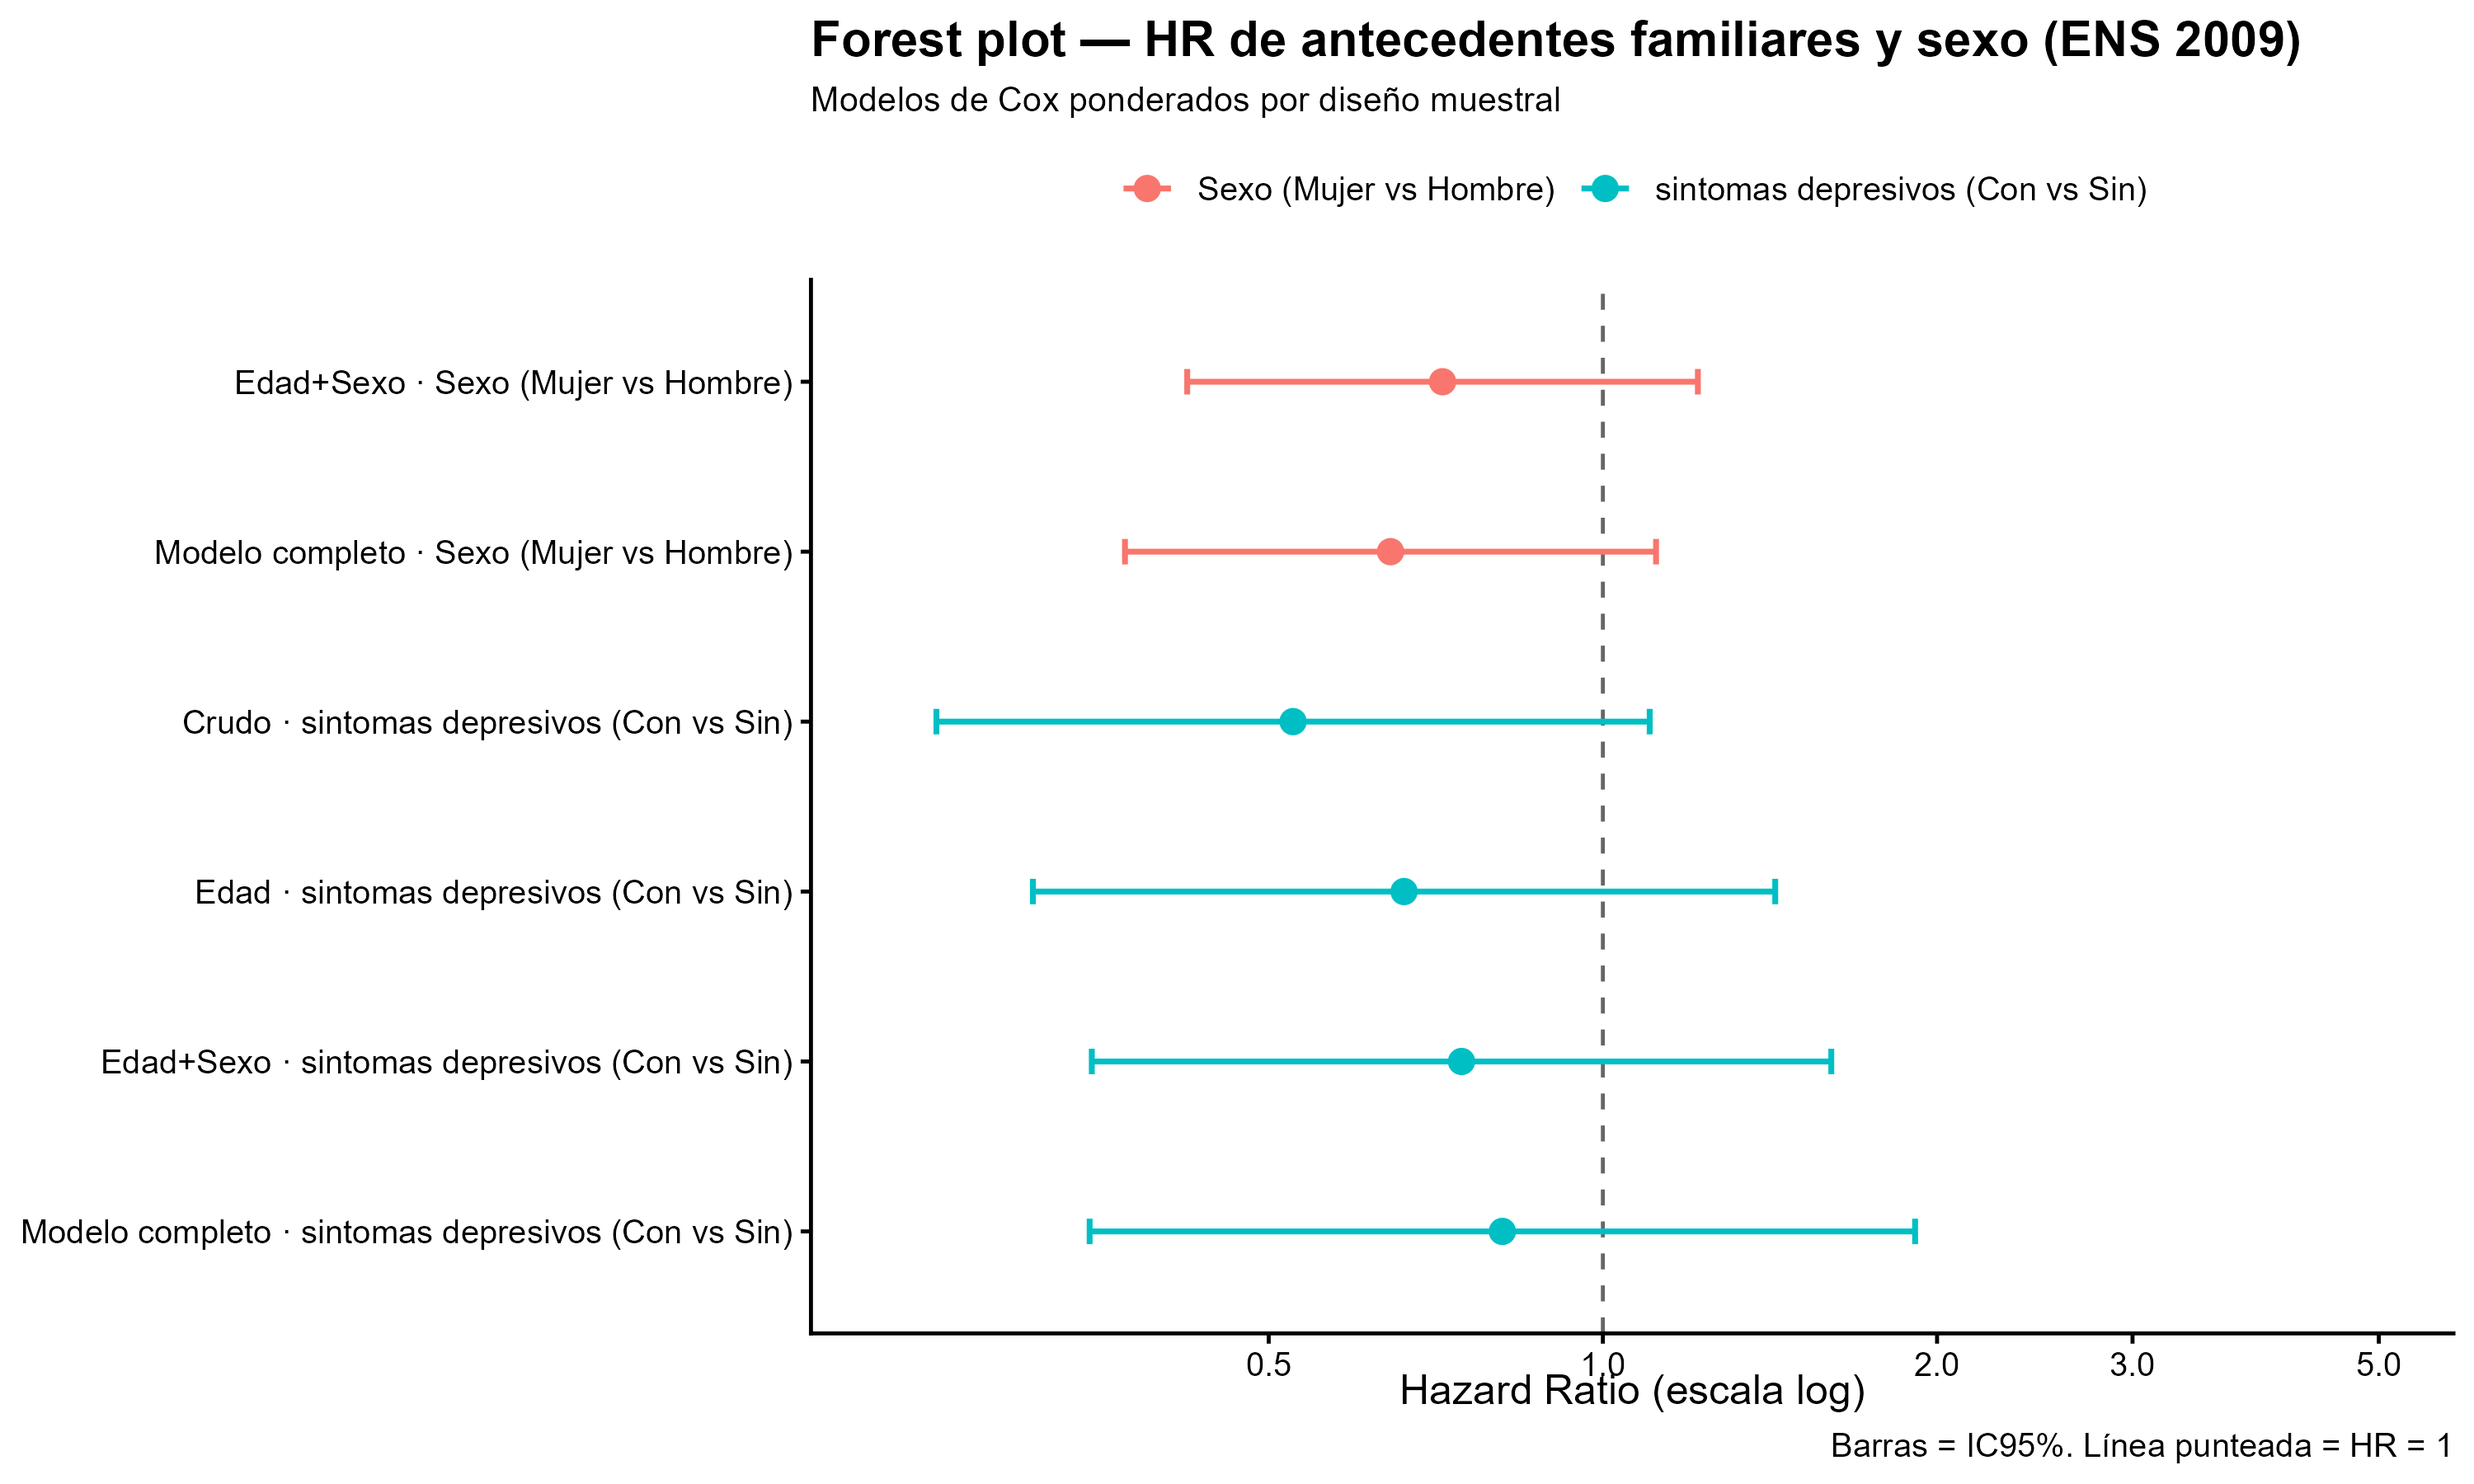
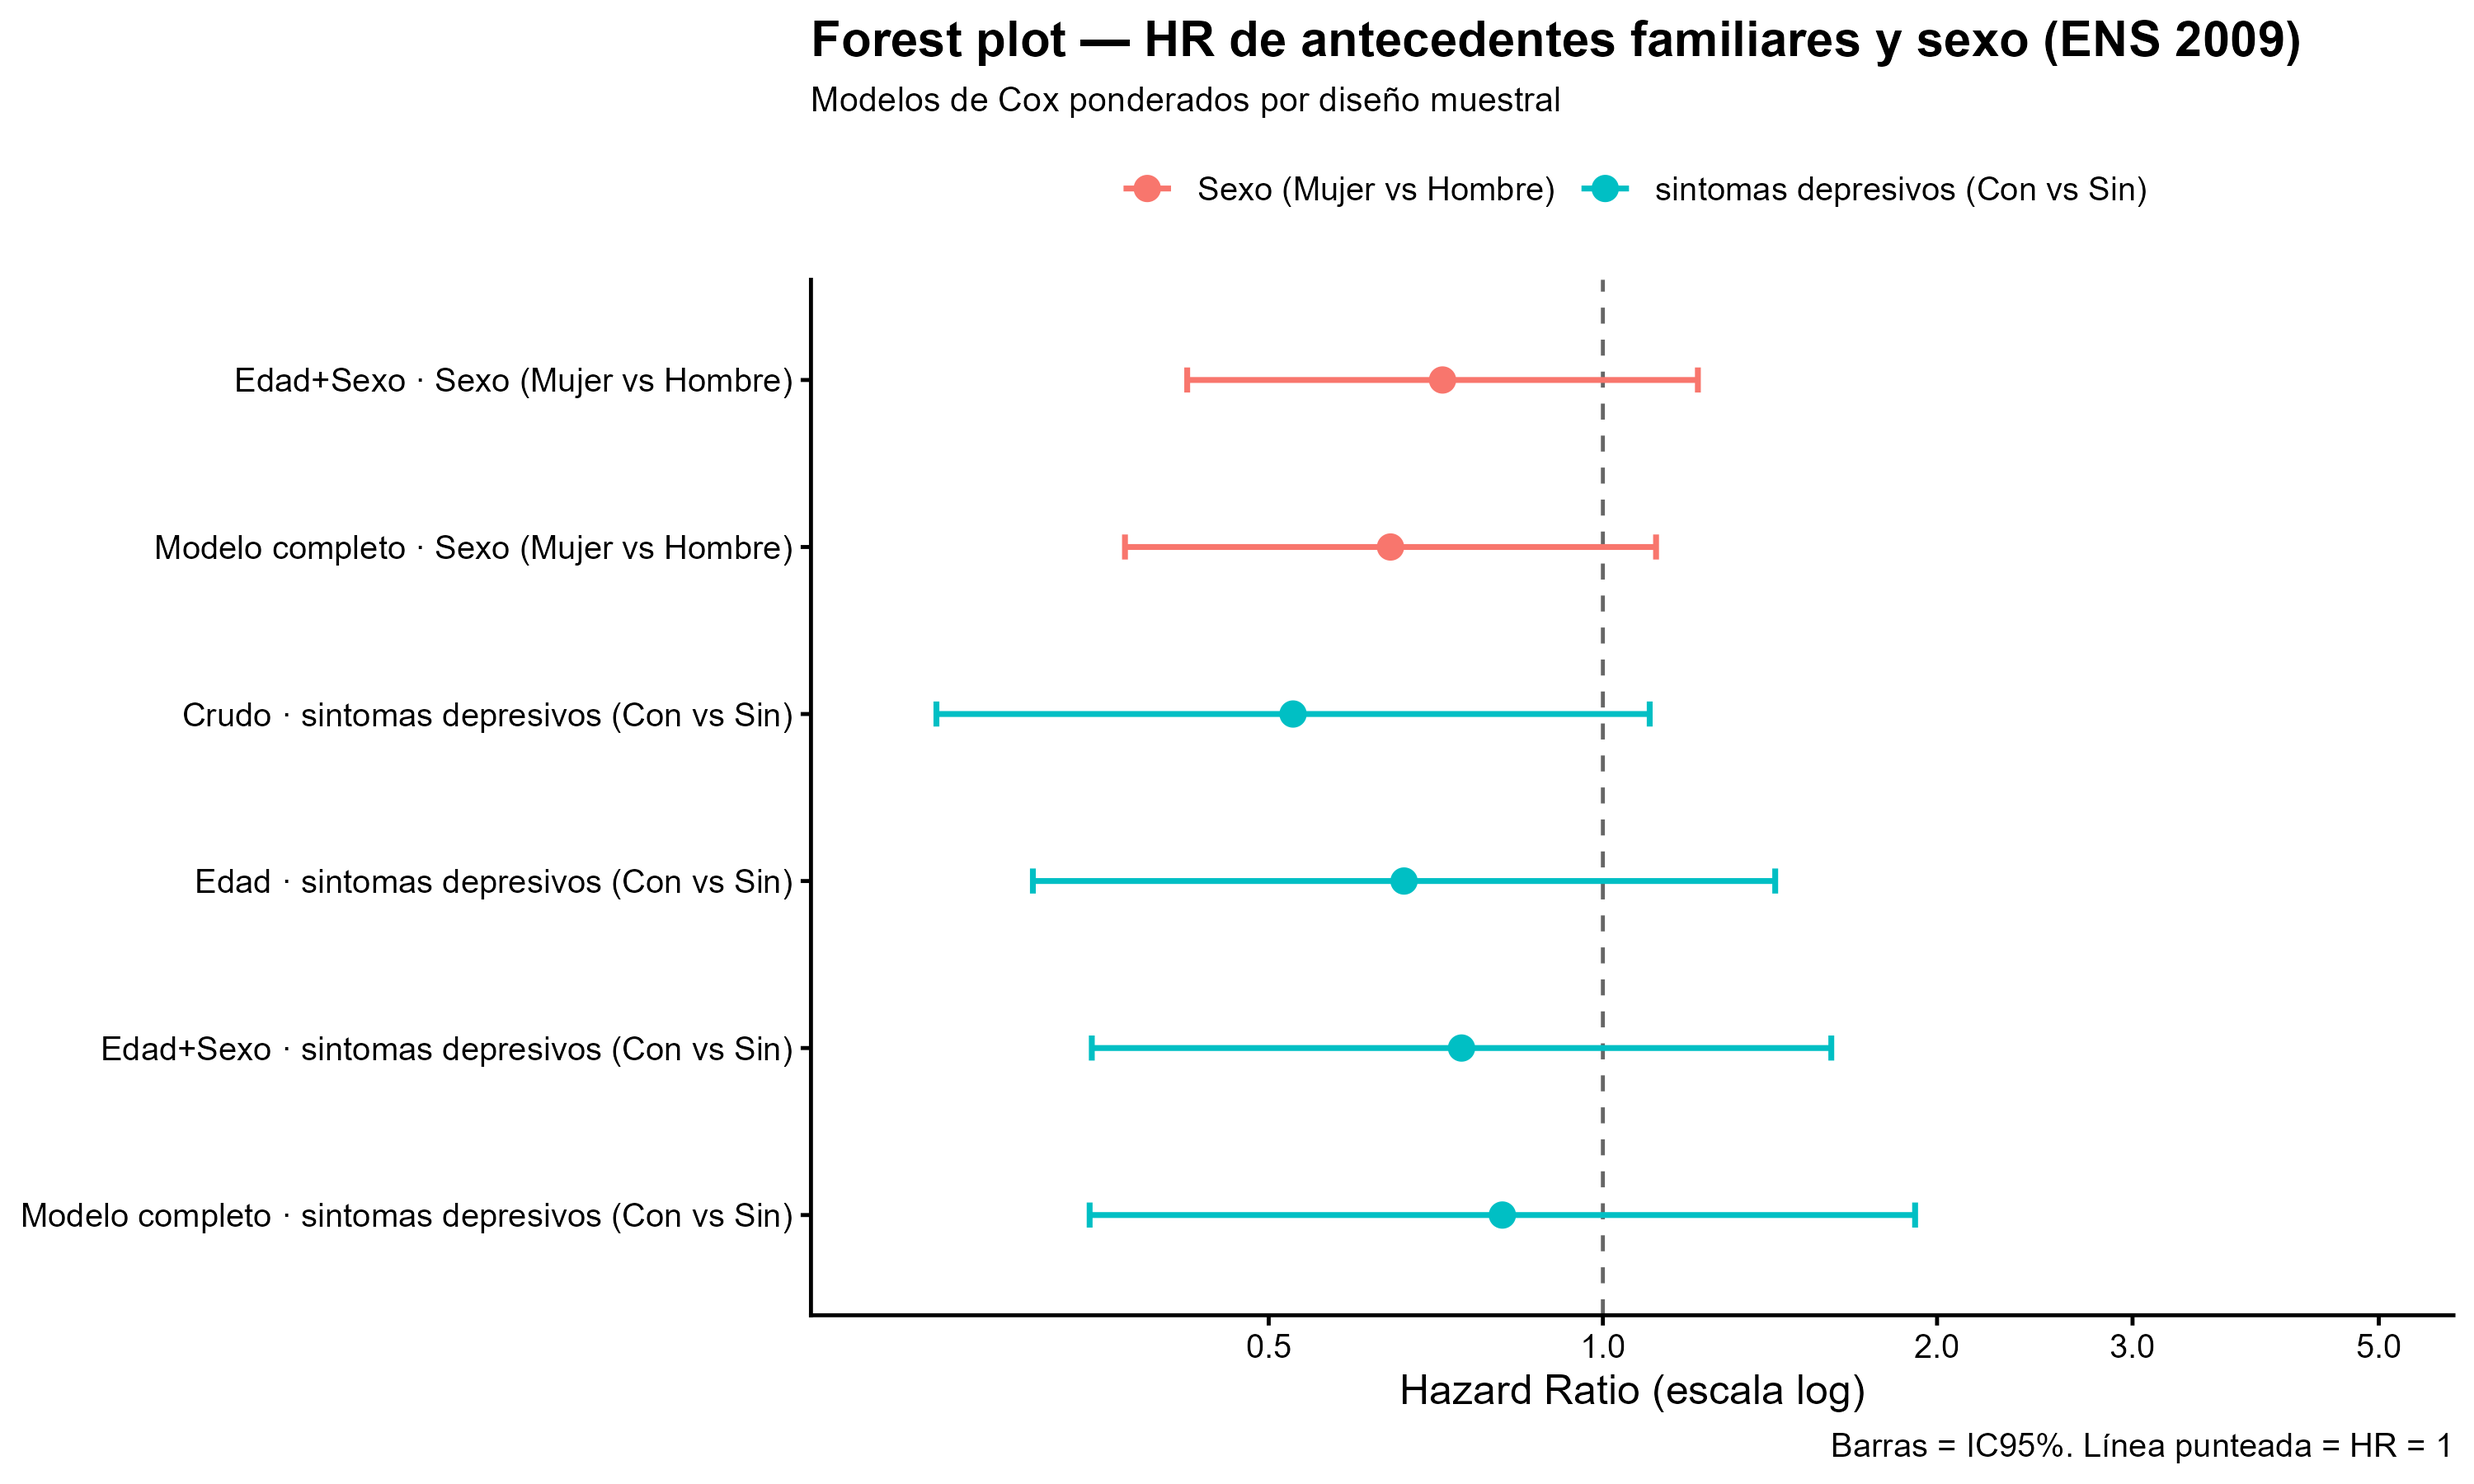
fp hr depresion 2003

diff --git a/output/tables/Depresion/tabla_cox_resumen_depresion_2003.md b/output/tables/Depresion/tabla_cox_resumen_depresion_2003.md
@@ -1,0 +1,21 @@
+Table: Modelos de Cox para muerte por cáncer segun presencia de sintomas depresivos 2003
+
+|modelo          |term                             |    HR| IC_inf| IC_sup| p.value|
+|:---------------|:--------------------------------|-----:|------:|------:|-------:|
+|Crudo           |Depresion_1_APWith symptoms      | 1.149|  0.694|  1.903|   0.589|
+|Edad            |Depresion_1_APWith symptoms      | 1.418|  0.842|  2.388|   0.189|
+|Edad            |edad                             | 1.084|  1.071|  1.097|   0.000|
+|Edad+Sexo       |Depresion_1_APWith symptoms      | 1.431|  0.845|  2.423|   0.182|
+|Edad+Sexo       |edad                             | 1.084|  1.071|  1.098|   0.000|
+|Edad+Sexo       |sexoFemale                       | 0.962|  0.606|  1.529|   0.871|
+|Modelo completo |Depresion_1_APWith symptoms      | 1.514|  0.877|  2.614|   0.137|
+|Modelo completo |edad                             | 1.082|  1.067|  1.097|   0.000|
+|Modelo completo |sexoFemale                       | 0.839|  0.522|  1.349|   0.469|
+|Modelo completo |nedu8-12 years                   | 0.869|  0.450|  1.677|   0.675|
+|Modelo completo |nedu>12 years                    | 0.692|  0.249|  1.924|   0.481|
+|Modelo completo |zonaRural                        | 0.986|  0.567|  1.716|   0.960|
+|Modelo completo |fumaSmoker                       | 1.355|  0.760|  2.414|   0.303|
+|Modelo completo |imc                              | 1.025|  0.990|  1.061|   0.166|
+|Modelo completo |a17Yes, 1 to 2 times per week    | 0.932|  0.187|  4.645|   0.931|
+|Modelo completo |a17Less than 4 times per month   | 1.693|  0.285| 10.066|   0.562|
+|Modelo completo |a17No exercise in the past month | 2.357|  0.576|  9.644|   0.233|
